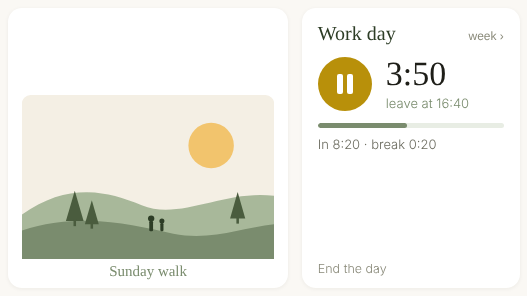
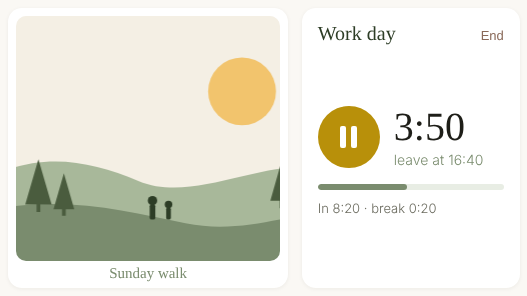
Panel: photo fills its card next to the work timer, timer centred and 'End' in its header so it fits at 672 px
Screenshots and guide wording updated.

Claude-Session: https://claude.ai/code/session_01XFa5nRVnwC7EDj78HJYt1f

diff --git a/panel/app.js b/panel/app.js
@@ -599,16 +599,17 @@
     }
     if (s.state === 'work' || s.state === 'break') {
       var sure = WORK.sure > t;
-      stop = '<div class="wk-stop' + (sure ? ' wk-sure' : '') + '" data-act="stop">' + esc(T(sure ? 'wkStopSure' : 'wkStop')) + '</div>';
+      stop = '<span class="wk-stop' + (sure ? ' wk-sure' : '') + '" data-act="stop">' + esc(T(sure ? 'wkStopSure' : 'wkStop')) + '</span>';
     }
     exit = s.state === 'done' ? T('wkLeft', { t: clockOf(s.out) }) : s.state === 'idle' ? T('wkDay', { t: C.hm(target) }) : T('wkLeaveAt', { t: clockOf(s.exit) });
     box.style.display = '';
     box.className = 'card card-work wk-' + s.state;
-    box.innerHTML = '<div class="wk-hd">' + esc(T('wkTitle')) + '<span>' + esc(T('wkWeekLink')) + '</span></div>' +
+    // while the day runs, "End" takes the place of "week ›" so the card needs one line less
+    box.innerHTML = '<div class="wk-hd">' + esc(T('wkTitle')) + (stop || '<span>' + esc(T('wkWeekLink')) + '</span>') + '</div>' +
       '<div class="wk-row">' + btn + '<div class="wk-info"><div class="wk-time">' + C.hm(s.worked) + '</div>' +
       '<div class="wk-exit">' + esc(exit) + '</div></div></div>' +
       '<div class="wk-bar"><i style="width:' + Math.min(100, Math.round(s.worked / target * 100)) + '%"></i></div>' +
-      '<div class="wk-state">' + line + '</div>' + stop;
+      '<div class="wk-state">' + line + '</div>';
   }
 
   function loadWork() {

diff --git a/panel/styles.css b/panel/styles.css
@@ -371,3 +371,29 @@ html.night .cv-seg span.on { background: #2d3726; color: #a8b89a; }
   .cv-ev { font-size: 11px; }
   .cv-dn { font-size: 16px; }
 }
+
+/* In the narrow slot the photo fills its card and the work timer is centred vertically;
+   "End" sits in the header instead of "week ›" so everything fits at 672 px. */
+.mid-bottom > .card-photo { padding: 8px 8px 6px; }
+.mid-bottom .photo-img { -webkit-background-size: cover; background-size: cover; background-position: center 40%; border-radius: 10px; }
+.card-work { overflow: hidden; }
+.wk-row { margin-top: auto; }
+.wk-state { margin-bottom: auto; white-space: nowrap; overflow: hidden; text-overflow: ellipsis; }
+.wk-hd .wk-stop { margin: 0; padding: 4px 0 4px 8px; font-size: 13px; color: #8a6a5a; }
+.wk-hd .wk-stop.wk-sure { color: #a03020; font-weight: 500; }
+@media (min-height: 760px) {
+  .wk-btn { width: 62px; height: 62px; border-radius: 31px; }
+  .wk-play i { left: 24px; top: 18px; border-width: 13px 0 13px 20px; }
+  .wk-pause i { top: 20px; height: 22px; left: 22px; }
+  .wk-pause i + i { left: 33px; }
+  .wk-time { font-size: 40px; }
+  .wk-exit { font-size: 14px; }
+  .wk-bar { margin-top: 16px; height: 6px; }
+  .wk-state { margin-top: 10px; }
+}
+@media (max-height: 720px) {
+  .card-work { padding: 10px 14px 10px; }
+  .wk-row { padding-top: 4px; }
+  .wk-bar { margin-top: 8px; }
+  .wk-state { margin-top: 6px; }
+}

diff --git a/panel/i18n.js b/panel/i18n.js
@@ -24,8 +24,8 @@ var I18N = {
     wkOnBreak: '<b>On a break</b> · {t}',
     wkDone: 'Done · {d}',
     wkTapToStart: 'Tap to start',
-    wkStop: 'End the day',
-    wkStopSure: 'End the day? Tap again',
+    wkStop: 'End',
+    wkStopSure: 'Sure? Tap again',
     wkThisWeek: 'This week',
     wkLastWeek: 'Last week',
     wkWeekOf: 'Week of {d}',
@@ -109,8 +109,8 @@ var I18N = {
     wkOnBreak: '<b>Descanso</b> · {t}',
     wkDone: 'Hecho · {d}',
     wkTapToStart: 'Toca para empezar',
-    wkStop: 'Terminar jornada',
-    wkStopSure: '¿Terminar? Toca otra vez',
+    wkStop: 'Terminar',
+    wkStopSure: '¿Seguro? Toca otra vez',
     wkThisWeek: 'Esta semana',
     wkLastWeek: 'Semana pasada',
     wkWeekOf: 'Semana del {d}',

diff --git a/docs/es/guia.md b/docs/es/guia.md
@@ -131,7 +131,7 @@ Sirve para saber cuántas horas trabajas de verdad sin apuntarlas en ningún sit
 
 - **▶** empieza la jornada. La tarjeta enseña las horas trabajadas y, más clarito, la hora a la que puedes salir para completar tu jornada.
 - **❚❚** abre un descanso (la tarjeta se pone amarilla y lo cuenta). Al darle otra vez a **▶** sigue sumando, y la hora de salida se retrasa lo que haya durado el descanso.
-- **Terminar jornada** pide un segundo toque en 4 segundos, para no cerrarla sin querer.
+- **Terminar** (arriba a la derecha mientras la jornada está en marcha) pide un segundo toque en 4 segundos, para no cerrarla sin querer.
 - **Tocando la tarjeta** ves la semana: entrada, salida, descansos, horas trabajadas y la diferencia con tu jornada; con la flecha vas a semanas anteriores.
 - **¿Se te olvidó fichar?** En la semana, toca el día y corrige cada hora con −1 h, −5, +5 y +1 h, añade el paso que faltó (un descanso, la salida) o quita el último. Las horas tienen que ir en orden.
 - Un día que no se terminó cuenta como jornada completa y sale marcado con «?».

diff --git a/docs/guide.md b/docs/guide.md
@@ -127,7 +127,7 @@ Useful if you want to know how many hours you really work without writing them d
 
 - **▶** starts the day. The card shows the time worked and, lighter, the time you can leave to complete your day.
 - **❚❚** starts a break (the card turns yellow and counts it). **▶** again carries on, and the leave time moves forward by the length of the break.
-- **End the day** needs a second tap within 4 seconds, so it is not ended by accident.
+- **End** (top right while the day runs) needs a second tap within 4 seconds, so the day is not ended by accident.
 - **Tap the card** to see the week: in, out, breaks, hours worked and the difference with your day; the arrow goes to earlier weeks.
 - **Forgot to clock in?** In the week, tap the day and correct each time with −1 h, −5, +5 and +1 h, add the step you missed (a break, the end) or remove the last one. Times must go in order.
 - A day you never ended counts as a full day and is marked with "?".
